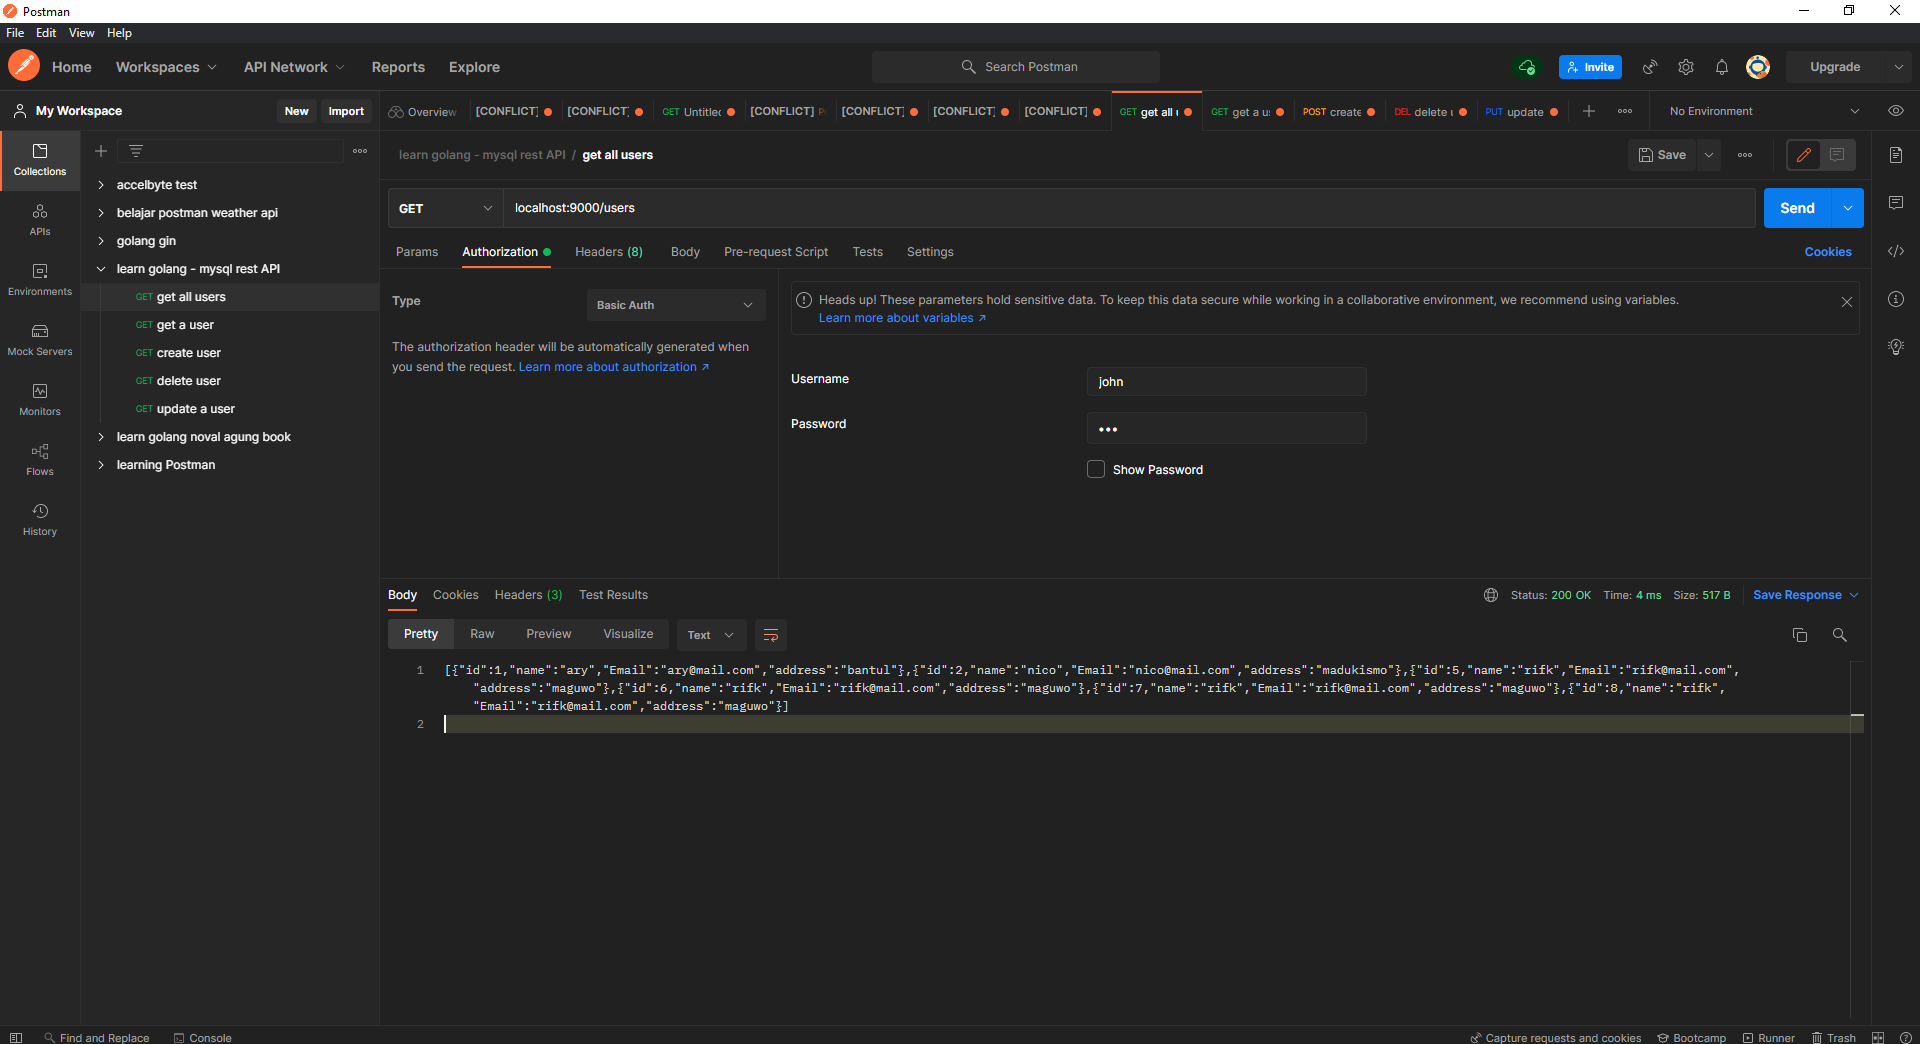
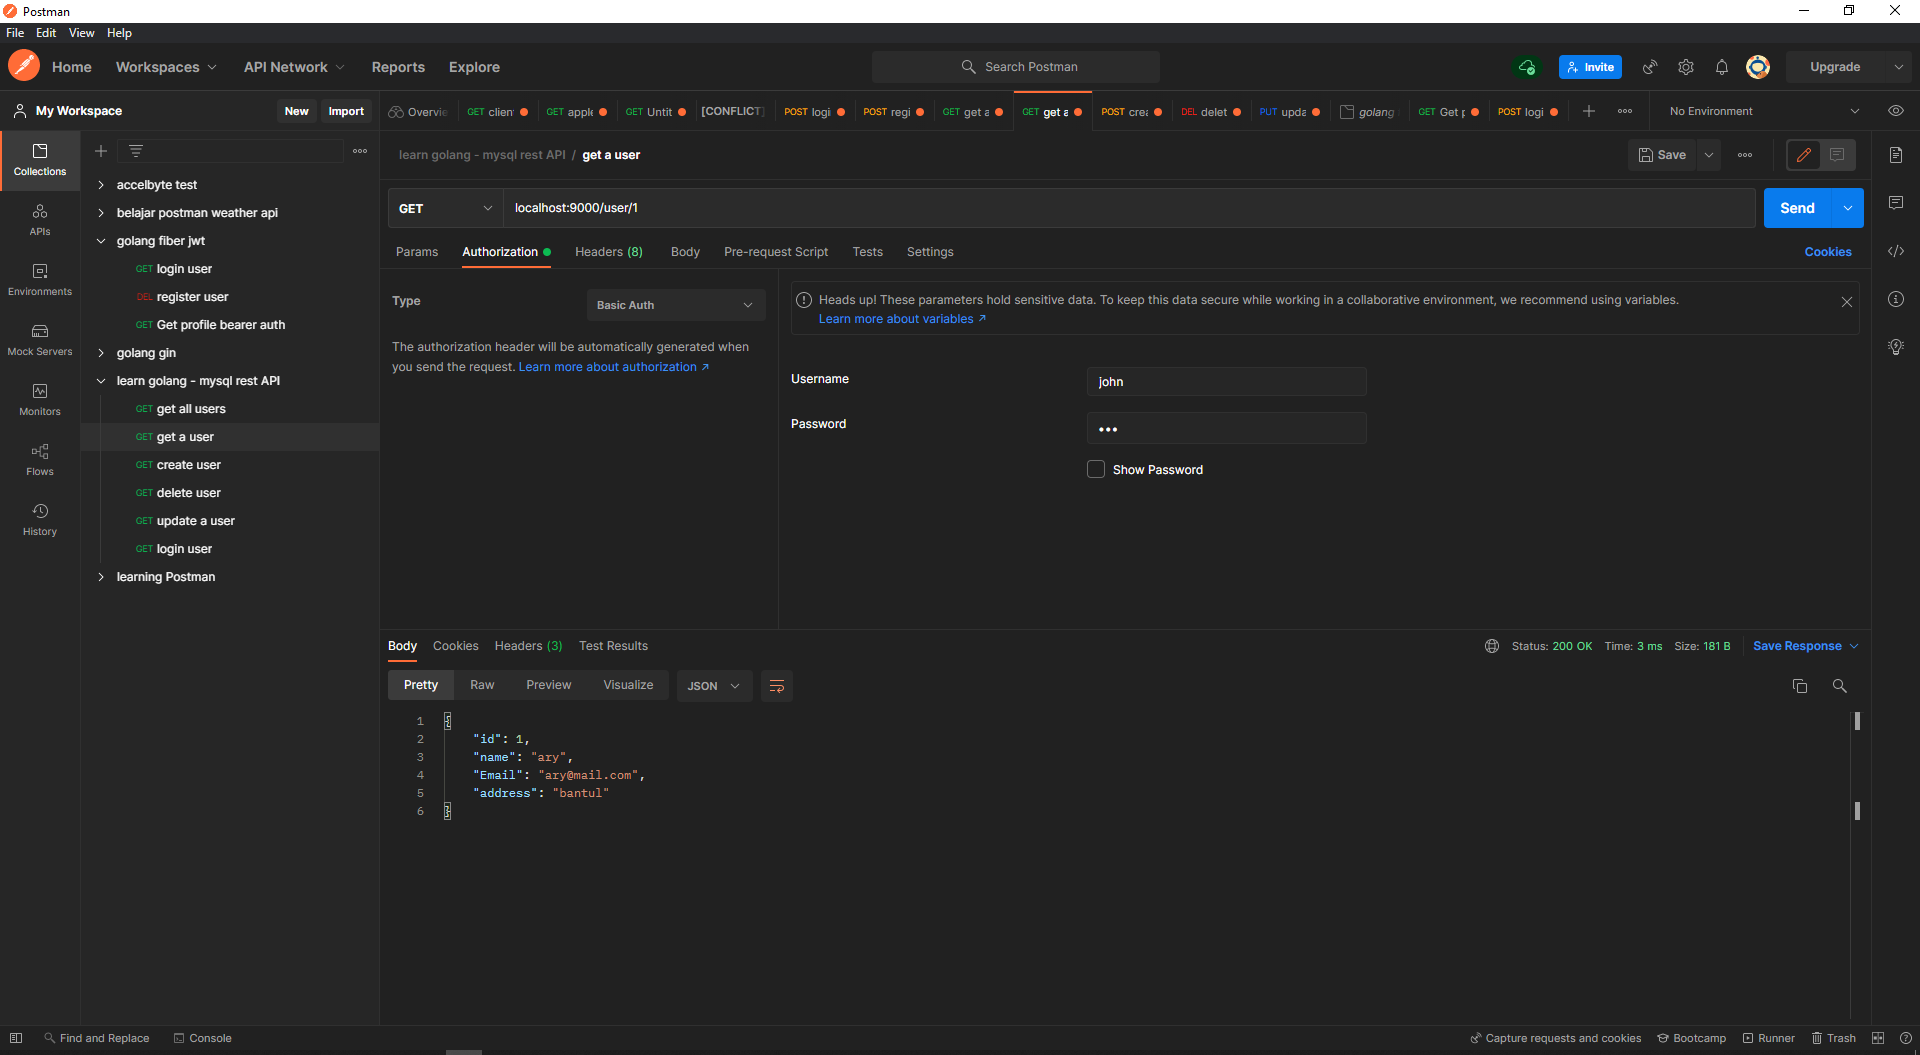
feat: implement login user generated auth token and use to access authorized endpoint

diff --git a/controller/user.go b/controller/user.go
@@ -3,17 +3,39 @@ package controller
 import (
 	"database/sql"
 	"encoding/json"
+	"fmt"
 	"go-rest-api/model"
 	"net/http"
 	"strconv"
+	"strings"
+	"time"
 
+	"github.com/dgrijalva/jwt-go"
 	"github.com/gorilla/mux"
+	"golang.org/x/crypto/bcrypt"
 )
+
+type UserActivity interface {
+	MiddlewareAuth(next http.HandlerFunc) http.HandlerFunc
+	GetAllUser(db *sql.DB) http.HandlerFunc
+	GetUser(db *sql.DB) http.HandlerFunc
+	CreateUser(db *sql.DB) http.HandlerFunc
+	DeleteUser(db *sql.DB) http.HandlerFunc
+	UpdateUser(db *sql.DB) http.HandlerFunc
+}
 
 const USERNAME = "john"
 const PASSWORD = "doe"
 
-func MiddlewareAuth(next http.HandlerFunc) http.HandlerFunc {
+const SecretKey = "TheSecretKey"
+
+// JwtClaim adds email as a claim to the token
+type JwtClaim struct {
+	Email string
+	jwt.StandardClaims
+}
+
+func MiddlewareBasicAuth(next http.HandlerFunc) http.HandlerFunc {
 	return http.HandlerFunc(func(w http.ResponseWriter, r *http.Request) {
 		username, password, ok := r.BasicAuth()
 		if !ok {
@@ -32,9 +54,131 @@ func MiddlewareAuth(next http.HandlerFunc) http.HandlerFunc {
 	})
 }
 
+func MiddlewareBearerAuth(next http.HandlerFunc) http.HandlerFunc {
+	return func(w http.ResponseWriter, r *http.Request) {
+		claims := &JwtClaim{}
+
+		authToken := r.Header.Get("authorization")
+		splitToken := strings.Split(authToken, "Bearer ")
+		authToken = splitToken[1]
+
+		token, err := jwt.ParseWithClaims(authToken, claims, func(t *jwt.Token) (interface{}, error) {
+			return []byte(SecretKey), nil
+		})
+
+		if err != nil {
+			fmt.Println(err)
+			if err == jwt.ErrSignatureInvalid {
+				w.WriteHeader(http.StatusUnauthorized)
+				w.Write([]byte("unauthorized access"))
+				return
+			}
+
+			w.WriteHeader(http.StatusBadRequest)
+			w.Write([]byte("wrong auth type"))
+			return
+		}
+
+		if !token.Valid {
+			w.WriteHeader(http.StatusUnauthorized)
+			w.Write([]byte("unauthorized access"))
+			return
+		}
+
+		next.ServeHTTP(w, r)
+	}
+}
+
+func CreateUser(db *sql.DB) http.HandlerFunc {
+	return func(w http.ResponseWriter, r *http.Request) {
+		data := model.User{}
+
+		decoder := json.NewDecoder(r.Body)
+		if err := decoder.Decode(&data); err != nil {
+			http.Error(w, err.Error(), http.StatusInternalServerError)
+			return
+		}
+
+		password, _ := bcrypt.GenerateFromPassword(data.Password, 12)
+
+		_, err := db.Exec("INSERT INTO user VALUES (?, ?, ?, ?, ?)", "", data.Name, data.Email, data.Address, password)
+		if err != nil {
+			http.Error(w, "Failed to create user", http.StatusInternalServerError)
+			return
+		}
+
+		w.WriteHeader(http.StatusCreated)
+		w.Header().Set("Content-Type", "application/json")
+
+		err = json.NewEncoder(w).Encode(data)
+		if err != nil {
+			http.Error(w, err.Error(), http.StatusInternalServerError)
+			return
+		}
+	}
+}
+
+func Login(db *sql.DB) http.HandlerFunc {
+	return func(w http.ResponseWriter, r *http.Request) {
+		//fmt.Println("ada")
+		user := model.User{}
+
+		decoder := json.NewDecoder(r.Body)
+		if err := decoder.Decode(&user); err != nil {
+			http.Error(w, err.Error(), http.StatusInternalServerError)
+			return
+		}
+
+		//fmt.Println(user.Email)
+
+		var hashedPassword []byte
+		err := db.QueryRow("SELECT password FROM user WHERE email = ?", user.Email).
+			Scan(&hashedPassword)
+		if err != nil {
+			http.Error(w, "User not found", http.StatusNotFound)
+			return
+		}
+
+		if err := bcrypt.CompareHashAndPassword(hashedPassword, []byte(user.Password)); err != nil {
+			fmt.Println(err)
+			w.WriteHeader(http.StatusUnauthorized)
+			w.Write([]byte("wrong password"))
+			return
+		}
+
+		claims := &JwtClaim{
+			Email: user.Email,
+			StandardClaims: jwt.StandardClaims{
+				Issuer:    strconv.Itoa(int(user.ID)),
+				ExpiresAt: time.Now().Add(time.Hour * 1).Unix(),
+			},
+		}
+
+		token := jwt.NewWithClaims(jwt.SigningMethodHS256, claims)
+		signedToken, err := token.SignedString([]byte(SecretKey))
+
+		if err != nil {
+			w.WriteHeader(http.StatusInternalServerError)
+			w.Write([]byte("wcan not login"))
+			return
+		}
+
+		data := make(map[string]string)
+
+		data["message"] = "succesfully login"
+		data["token"] = signedToken
+
+		err = json.NewEncoder(w).Encode(data)
+		if err != nil {
+			http.Error(w, err.Error(), http.StatusInternalServerError)
+			return
+		}
+	}
+}
+
 func GetAllUser(db *sql.DB) http.HandlerFunc {
 	return func(w http.ResponseWriter, r *http.Request) {
-		users, err := db.Query("SELECT * FROM user")
+		users, err := db.Query("SELECT id, name, email, address FROM user")
 		if err != nil {
 			panic(err)
 		}
@@ -84,33 +228,6 @@ func GetUser(db *sql.DB) http.HandlerFunc {
 		}
 
 		w.WriteHeader(http.StatusOK)
-		w.Header().Set("Content-Type", "application/json")
-
-		err = json.NewEncoder(w).Encode(data)
-		if err != nil {
-			http.Error(w, err.Error(), http.StatusInternalServerError)
-			return
-		}
-	}
-}
-
-func CreateUser(db *sql.DB) http.HandlerFunc {
-	return func(w http.ResponseWriter, r *http.Request) {
-		data := model.User{}
-
-		decoder := json.NewDecoder(r.Body)
-		if err := decoder.Decode(&data); err != nil {
-			http.Error(w, err.Error(), http.StatusInternalServerError)
-			return
-		}
-
-		_, err := db.Exec("INSERT INTO user VALUES (?, ?, ?, ?)", "", data.Name, data.Email, data.Address)
-		if err != nil {
-			http.Error(w, "Failed to create user", http.StatusInternalServerError)
-			return
-		}
-
-		w.WriteHeader(http.StatusCreated)
 		w.Header().Set("Content-Type", "application/json")
 
 		err = json.NewEncoder(w).Encode(data)

diff --git a/main.go b/main.go
@@ -17,11 +17,12 @@ func main() {
 
 	router := mux.NewRouter()
 
-	router.HandleFunc("/users", controller.MiddlewareAuth(controller.GetAllUser(db)))
-	router.HandleFunc("/user", controller.MiddlewareAuth(controller.CreateUser(db))).Methods("POST")
-	router.HandleFunc("/user/{userId}", controller.MiddlewareAuth(controller.GetUser(db))).Methods("GET")
-	router.HandleFunc("/user/{userId}", controller.MiddlewareAuth(controller.DeleteUser(db))).Methods("DELETE")
-	router.HandleFunc("/user/{userId}", controller.MiddlewareAuth(controller.UpdateUser(db))).Methods("PUT")
+	router.HandleFunc("/user/create", controller.MiddlewareBasicAuth(controller.CreateUser(db))).Methods("POST")
+	router.HandleFunc("/user/login", controller.MiddlewareBasicAuth(controller.Login(db))).Methods("POST")
+	router.HandleFunc("/users", controller.MiddlewareBearerAuth(controller.GetAllUser(db))).Methods("GET")
+	router.HandleFunc("/user/{userId}", controller.MiddlewareBasicAuth(controller.GetUser(db))).Methods("GET")
+	router.HandleFunc("/user/{userId}", controller.MiddlewareBasicAuth(controller.DeleteUser(db))).Methods("DELETE")
+	router.HandleFunc("/user/{userId}", controller.MiddlewareBasicAuth(controller.UpdateUser(db))).Methods("PUT")
 
 	http.Handle("/", router)
 

diff --git a/model/user.go b/model/user.go
@@ -1,8 +1,9 @@
 package model
 
 type User struct {
-	ID		int		`json:"id"`
-	Name	string	`json:"name"`
-	Email	string	`Json:"email"`
-	Address	string	`json:"address"`
+	ID			int		`json:"id"`
+	Name		string	`json:"name"`
+	Email		string	`Json:"email" sql:"unique"`
+	Address		string	`json:"address"`
+	Password	[]byte	`json:"-"`
 }

diff --git a/README.md b/README.md
@@ -2,16 +2,26 @@
 
 This is a learning project to create CRUD REST API without using any framework.
 
-In this project implement Basic Auth, so if we want to create any request we should define username and password (Encode64) in the request header : `Authorization: Basic Base64(username:password)`
+In this project implement Basic Auth and Bearer Auth. 
+- if we want to create any request to endpoint that implemented basic auth we should define username and password (Encode64) in the request header : `Authorization: Basic Base64(username:password)`
+- if we want to create any request to endpoint that implemented bearer auth we should define token the request header : `Authorization: Bearer <token>`
 
 Pre-requisite :
 1. Install MySQL server on machine
 2. Install go sql driver package        : `go get -u github.com/go-sql-driver/mysql`
 3. Install Gorilla Mux route package    : `go get -u github.com/gorilla/mux`
+4. Install JWT-Go                       : `go get github.com/dgrijalva/jwt-go`
+5. Install bcrypt                       : `go get golang.org/x/crypto/bcrypt`
 
 Demo (using PostMan) :
-1. Get All User records - OK
-![alt text](https://github.com/aryanicosa/go-mysql-rest-api/blob/main/doc/Correct_Basic_Auth.PNG)
+1. Create new user - basic auth - Created
+![alt text](https://github.com/aryanicosa/go-mysql-rest-api/blob/main/doc/user_created.PNG)
 
-2. Get a User records - Unauthorized
-![alt text](https://github.com/aryanicosa/go-mysql-rest-api/blob/main/doc/Unauthorized_basic_auth.PNG)
+2. Login and generate auth token - basic auth - OK
+![alt text](https://github.com/aryanicosa/go-mysql-rest-api/blob/main/doc/user_login.PNG)
+
+2. Get All User records - bearer auth - OK
+![alt text](https://github.com/aryanicosa/go-mysql-rest-api/blob/main/doc/Correct_Bearer_Auth.PNG)
+
+3. Get a User records - basic auth - OK
+![alt text](https://github.com/aryanicosa/go-mysql-rest-api/blob/main/doc/Correct_basic_auth.PNG)
